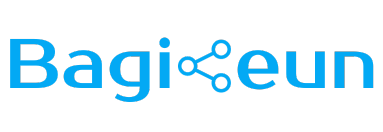
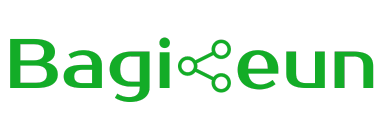
Send email endpoint & SMTP setup (brevo & nodemailer)

Changed region(s): [[0.0287, 0.2727, 0.9765, 0.7879], [0.4021, 0.2727, 0.4595, 0.3636]]

diff --git a/services/emailTemplate.js b/services/emailTemplate.js
@@ -1,0 +1,178 @@
+module.exports = ({
+    emailFrom,
+    downloadLink,
+    size,
+    expires
+}) => {
+    return `
+        <!doctype html>
+            <html>
+            <head>
+                <meta name="viewport" content="width=device-width">
+                <meta http-equiv="Content-Type" content="text/html; charset=UTF-8">
+                <title>Simple Transactional Email</title>
+                <style>
+                /* -------------------------------------
+                    INLINED WITH htmlemail.io/inline
+                ------------------------------------- */
+                /* -------------------------------------
+                    RESPONSIVE AND MOBILE FRIENDLY STYLES
+                ------------------------------------- */
+                @media only screen and (max-width: 620px) {
+                table[class=body] h1 {
+                    font-size: 28px !important;
+                    margin-bottom: 10px !important;
+                }
+                table[class=body] p,
+                        table[class=body] ul,
+                        table[class=body] ol,
+                        table[class=body] td,
+                        table[class=body] span,
+                        table[class=body] a {
+                    font-size: 16px !important;
+                }
+                table[class=body] .wrapper,
+                        table[class=body] .article {
+                    padding: 10px !important;
+                }
+                table[class=body] .content {
+                    padding: 0 !important;
+                }
+                table[class=body] .container {
+                    padding: 0 !important;
+                    width: 100% !important;
+                }
+                table[class=body] .main {
+                    border-left-width: 0 !important;
+                    border-radius: 0 !important;
+                    border-right-width: 0 !important;
+                }
+                table[class=body] .btn table {
+                    width: 100% !important;
+                }
+                table[class=body] .btn a {
+                    width: 100% !important;
+                }
+                table[class=body] .img-responsive {
+                    height: auto !important;
+                    max-width: 100% !important;
+                    width: auto !important;
+                }
+                }
+            
+                /* -------------------------------------
+                    PRESERVE THESE STYLES IN THE HEAD
+                ------------------------------------- */
+                @media all {
+                .ExternalClass {
+                    width: 100%;
+                }
+                .ExternalClass,
+                        .ExternalClass p,
+                        .ExternalClass span,
+                        .ExternalClass font,
+                        .ExternalClass td,
+                        .ExternalClass div {
+                    line-height: 100%;
+                }
+                .apple-link a {
+                    color: inherit !important;
+                    font-family: inherit !important;
+                    font-size: inherit !important;
+                    font-weight: inherit !important;
+                    line-height: inherit !important;
+                    text-decoration: none !important;
+                }
+                #MessageViewBody a {
+                    color: inherit;
+                    text-decoration: none;
+                    font-size: inherit;
+                    font-family: inherit;
+                    font-weight: inherit;
+                    line-height: inherit;
+                }
+                .btn-primary table td:hover {
+                    background-color: #02ca6d !important;
+                }
+                .btn-primary a:hover {
+                    background-color: #02ca6d !important;
+                    border-color: #02ca6d !important;
+                }
+                }
+                </style>
+            </head>
+            <body class="" style="background-color: #f6f6f6; font-family: sans-serif; -webkit-font-smoothing: antialiased; font-size: 14px; line-height: 1.4; margin: 0; padding: 0; -ms-text-size-adjust: 100%; -webkit-text-size-adjust: 100%;">
+                <table border="0" cellpadding="0" cellspacing="0" class="body" style="border-collapse: separate; mso-table-lspace: 0pt; mso-table-rspace: 0pt; width: 100%; background-color: #f6f6f6;">
+                <tr>
+                    <td style="font-family: sans-serif; font-size: 14px; vertical-align: top;">&nbsp;</td>
+                    <td class="container" style="font-family: sans-serif; font-size: 14px; vertical-align: top; display: block; Margin: 0 auto; max-width: 580px; padding: 10px; width: 580px;">
+                    <div class="content" style="box-sizing: border-box; display: block; Margin: 0 auto; max-width: 580px; padding: 10px;">
+            
+                        <!-- START CENTERED WHITE CONTAINER -->
+                        <span class="preheader" style="color: transparent; display: none; height: 0; max-height: 0; max-width: 0; opacity: 0; overflow: hidden; mso-hide: all; visibility: hidden; width: 0;">This is preheader text. Some clients will show this text as a preview.</span>
+                        <table class="main" style="border-collapse: separate; mso-table-lspace: 0pt; mso-table-rspace: 0pt; width: 100%; background: #ffffff; border-radius: 3px;">
+            
+                        <!-- START MAIN CONTENT AREA -->
+                        <tr>
+                            <td class="wrapper" style="font-family: sans-serif; font-size: 14px; vertical-align: top; box-sizing: border-box; padding: 20px;">
+                            <table border="0" cellpadding="0" cellspacing="0" style="border-collapse: separate; mso-table-lspace: 0pt; mso-table-rspace: 0pt; width: 100%;">
+                                <tr>
+                                <td style="font-family: sans-serif; font-size: 14px; vertical-align: top;">
+                                    <p style="font-family: sans-serif; font-size: 14px; font-weight: normal; margin: 0; Margin-bottom: 15px;">Hi there,</p>
+                                    <p style="font-family: sans-serif; font-size: 14px; font-weight: normal; margin: 0; Margin-bottom: 15px;"><b>${emailFrom}</b> has shared a file with you.</p>
+                                    <p style="font-family: sans-serif; font-size: 14px; font-weight: normal; margin: 0; Margin-bottom: 15px;">${size} in total ・ Expires in ${expires}</p>
+                                    <table border="0" cellpadding="0" cellspacing="0" class="btn btn-primary" style="border-collapse: separate; mso-table-lspace: 0pt; mso-table-rspace: 0pt; width: 100%; box-sizing: border-box;">
+                                    <tbody>
+                                        <tr>
+                                        <td align="left" style="font-family: sans-serif; font-size: 14px; vertical-align: top; padding-bottom: 15px;">
+                                            <table border="0" cellpadding="0" cellspacing="0" style="border-collapse: separate; mso-table-lspace: 0pt; mso-table-rspace: 0pt; width: auto;">
+                                            <tbody>
+                                                <tr>
+                                                <td style="font-family: sans-serif; font-size: 14px; vertical-align: top; background-color: #13ac27; border-radius: 5px; text-align: center;"> <a href="${downloadLink}" target="_blank" style="display: inline-block; color: #ffffff; background-color: #13ac27; border: solid 1px #13ac27; border-radius: 5px; box-sizing: border-box; cursor: pointer; text-decoration: none; font-size: 14px; font-weight: bold; margin: 0; padding: 12px 25px; text-transform: capitalize; border-color: #13ac27;">Download file</a> </td>
+                                                </tr>
+                                            </tbody>
+                                            </table>
+                                        </td>
+                                        </tr>
+                                    </tbody>
+                                    </table>
+                                    <p style="font-family: sans-serif; font-size: 14px; font-weight: normal; margin: 0; Margin-bottom: 15px;">Thank you for using Bagikeun service.</p>
+                                    <p style="font-family: sans-serif; font-size: 14px; font-weight: normal; margin: 0; Margin-bottom: 15px;">Good luck! Hope it works.</p>
+                                    <img src="https://drive.google.com/uc?export=view&id=1KLHDGp0Kr7Cc4L27IzXsWJilvnj0iGVG" alt="Bagikeun logo" style="width:110px;">
+                                </td>
+                                </tr>
+                            </table>
+                            </td>
+                        </tr>
+            
+                        <!-- END MAIN CONTENT AREA -->
+                        </table>
+            
+                        <!-- START FOOTER -->
+                        <div class="footer" style="clear: both; Margin-top: 10px; text-align: center; width: 100%;">
+                        <table border="0" cellpadding="0" cellspacing="0" style="border-collapse: separate; mso-table-lspace: 0pt; mso-table-rspace: 0pt; width: 100%;">
+                            <tr>
+                            <td class="content-block" style="font-family: sans-serif; vertical-align: top; padding-bottom: 10px; padding-top: 10px; font-size: 12px; color: #999999; text-align: center;">
+                                <span class="apple-link" style="color: #999999; font-size: 12px; text-align: center;">Bagikeun inc. Bekasi, Indonesia</span>
+                                <br> Want to share a file? <a href="http://localhost:3000" style="text-decoration: underline; color: #999999; font-size: 12px; text-align: center;">Bagikeun</a>.
+                            </td>
+                            </tr>
+                            <tr>
+                            <td class="content-block powered-by" style="font-family: sans-serif; vertical-align: top; padding-bottom: 10px; padding-top: 10px; font-size: 12px; color: #999999; text-align: center;">
+                                Powered by <a href="https://www.github.com/simonaditia" style="color: #999999; font-size: 12px; text-align: center; text-decoration: none;">Simon Aditia</a>.
+                            </td>
+                            </tr>
+                        </table>
+                        </div>
+                        <!-- END FOOTER -->
+            
+                    <!-- END CENTERED WHITE CONTAINER -->
+                    </div>
+                    </td>
+                    <td style="font-family: sans-serif; font-size: 14px; vertical-align: top;">&nbsp;</td>
+                </tr>
+                </table>
+            </body>
+        </html>
+    `;
+}

diff --git a/controllers/fileController.js b/controllers/fileController.js
@@ -20,7 +20,7 @@ let upload = multer({
     }
 }).single("myfile")
 
-const fileController = (req, res) => {
+const uploadFile = (req, res) => {
     // Store File
     upload(req, res, async (err) => {
         // Validate Request
@@ -50,4 +50,54 @@ const fileController = (req, res) => {
     // Response -> Link
 }
 
-module.exports = fileController
+const sendEmail = async (req, res) => {
+    const {
+        uuid,
+        emailTo,
+        emailFrom
+    } = req.body
+
+    // Validate request
+    if (!uuid || !emailTo || !emailFrom) {
+        return res.status(422).send({
+            error: "All fields are required."
+        })
+    }
+
+    // Get data from database
+    const file = await File.findOne({
+        uuid: uuid
+    })
+    if (file.sender) {
+        return res.status(422).send({
+            error: "Email already send."
+        })
+    }
+
+    file.sender = emailFrom
+    file.receiver = emailTo
+    const response = await file.save()
+
+    // Send email
+    const sendMail = require("../services/emailService")
+    sendMail({
+        from: emailFrom,
+        to: emailTo,
+        subject: "Bagikeun file sharing",
+        text: `${emailFrom} shared a file with you.`,
+        html: require("../services/emailTemplate")({
+            emailFrom: emailFrom,
+            downloadLink: `${process.env.APP_BASE_URL}/files/${file.uuid}`,
+            size: parseInt(file.size / 1000) + " KB",
+            expires: "24 hours"
+        })
+    })
+    return res.send({
+        success: true
+    })
+}
+
+module.exports = {
+    uploadFile,
+    sendEmail
+}

diff --git a/services/emailService.js b/services/emailService.js
@@ -1,0 +1,29 @@
+const nodemailer = require("nodemailer")
+const sendMail = async ({
+    from,
+    to,
+    subject,
+    text,
+    html
+}) => {
+    let transporter = nodemailer.createTransport({
+        host: process.env.SMTP_HOST,
+        port: process.env.SMTP_PORT,
+        secure: false,
+        auth: {
+            user: process.env.MAIL_USER,
+            pass: process.env.MAIL_PASS
+        }
+    })
+
+    let info = await transporter.sendMail({
+        from: `Bagikeun <${from}>`,
+        to,
+        subject,
+        text,
+        html,
+    })
+    // console.log(info)
+}
+
+module.exports = sendMail

diff --git a/routes/files.js b/routes/files.js
@@ -2,7 +2,7 @@ const express = require("express")
 const fileController = require("../controllers/fileController")
 const router = express.Router()
 
-// router.post("")
-router.post("/", fileController)
+router.post("/", fileController.uploadFile)
+router.post("/send", fileController.sendEmail)
 
 module.exports = router

diff --git a/app.js b/app.js
@@ -11,6 +11,8 @@ const connectDB = require("./config/db")
 connectDB()
 
 app.use(express.static("public"))
+app.use(express.json())
+
 app.set("views", path.join(__dirname, "/views"))
 app.set("view engine", "ejs")
 

diff --git a/public/css/style.css b/public/css/style.css
@@ -1,7 +1,7 @@
 :root {
-    --main-bg-color: #edf5fe;
-    --light-blue: #03a9f4;
-    --dark-blue: #028bca;
+    --main-bg-color: #dcffda;
+    --light-blue: #13ac27;
+    --dark-blue: #02ca6d;
   }
 
   body {
